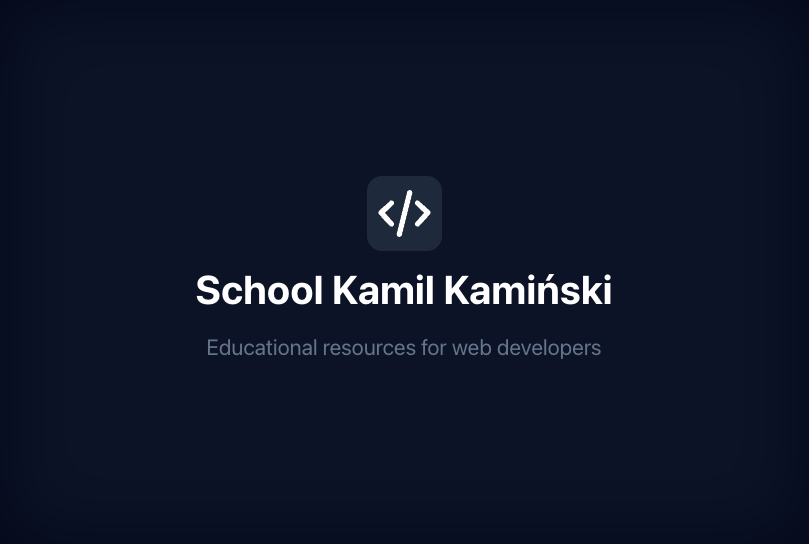
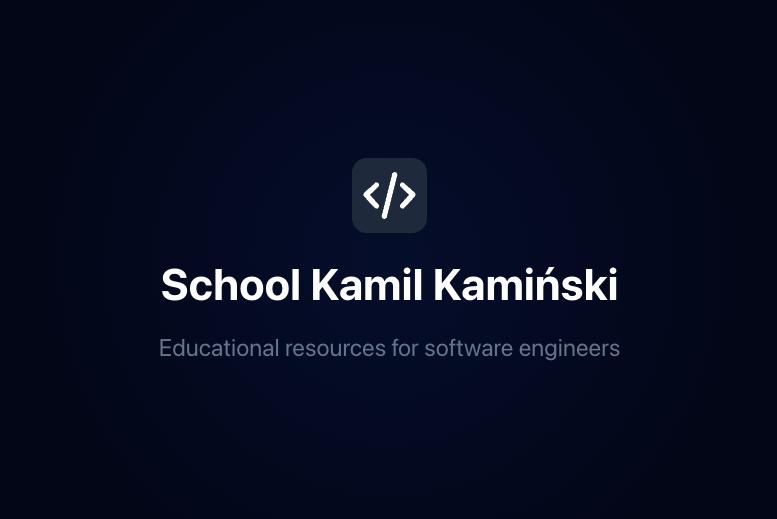
refactor: Landing section and blog section naming to tutorials section

Changed region(s): [[0.1853, 0.4933, 0.8031, 0.5857], [0.1853, 0.6166, 0.8031, 0.7091], [0.4633, 0.3391, 0.556, 0.4624]]

diff --git a/src/components/LandingSection.vue b/src/components/LandingSection.vue
@@ -14,12 +14,12 @@
     <span class="vertical-grid-line right" />
     <div class="landing-section__item">
       <span class="horizontal-grid-line top" />
-      <h1 class="landing-section__item-title">Education resources for web developers</h1>
+      <h1 class="landing-section__item-title">Educational resources for software engineers</h1>
     </div>
     <div class="landing-section__item">
       <span class="horizontal-grid-line top" />
       <p class="landing-section__desc">
-        Explore online <strong>courses</strong>, <strong>templates</strong>,
+        Explore online <strong>projects</strong>, <strong>templates</strong>,
         <strong>coding examples</strong>, <strong>tutorials</strong>, and much more - all in one
         place
       </p>
@@ -31,7 +31,7 @@
         <button class="landing-section__item-btn btn--highlight" @click="openBlogPage">
           Get started
         </button>
-        <button class="landing-section__item-btn btn--outline" @click="scrollToBlogSection">
+        <button class="landing-section__item-btn btn--outline" @click="scrollToTutorialsSection">
           Learn more
         </button>
         <span v-if="!isTablet" class="vertical-grid-line right" />
@@ -51,9 +51,9 @@ const openBlogPage = () => {
   router.push({ name: 'blog' })
 }
 
-const scrollToBlogSection = () => {
-  const blogSection = document.getElementById('blog')
-  if (blogSection) blogSection.scrollIntoView({ behavior: 'smooth' })
+const scrollToTutorialsSection = () => {
+  const tutorialsSection = document.getElementById('tutorials')
+  if (tutorialsSection) tutorialsSection.scrollIntoView({ behavior: 'smooth' })
 }
 </script>
 
@@ -72,16 +72,17 @@ const scrollToBlogSection = () => {
     .landing-section__item-title {
       @include title;
       text-align: center;
-      max-width: 55%;
+      max-width: clamp(450px, 55vw, 650px);
 
-      @include for-large-tablet {
-        max-width: 400px;
+      @include for-small-phone {
+        max-width: unset;
       }
     }
 
     .landing-section__desc {
       font-size: 1.125em;
       color: $slate-gray;
+      line-height: 1.3;
 
       @include for-desktop {
         text-align: center;
@@ -90,6 +91,10 @@ const scrollToBlogSection = () => {
 
       @include for-tablet {
         max-width: 405px;
+      }
+
+      @include for-phone {
+        max-width: 280px;
       }
     }
 
@@ -178,12 +183,15 @@ const scrollToBlogSection = () => {
       }
     }
 
-    &:first-child {
+    &:first-child,
+    &:last-child {
       padding: 0;
     }
 
-    &:last-child {
-      padding: 0;
+    &:nth-child(4) {
+      @include for-phone {
+        padding: 1.25em;
+      }
     }
   }
 

diff --git a/index.html b/index.html
@@ -3,7 +3,7 @@
   <head>
     <meta charset="UTF-8">
     <title>School Kamil Kamiński</title>
-    <meta name="description" content="Education resources for web developers">
+    <meta name="description" content="Educational resources for software engineers">
     <link rel="icon" type="image/png" sizes="16x16" href="/favicon-16x16.png">
     <link rel="icon" type="image/png" sizes="32x32" href="/favicon-32x32.png">
     <link rel="icon" type="image/png" sizes="48x48" href="/favicon-48x48.png">
@@ -15,10 +15,10 @@
     <meta property="og:site_name" content="School Kamil Kamiński">
     <meta property="og:url" content="https://school.kamilkaminski.pl/">
     <meta property="og:type" content="website">
-    <meta property="og:description" content="Education resources for web developers">
+    <meta property="og:description" content="Educational resources for software engineers">
     <meta property="og:image" content="https://school.kamilkaminski.pl/og.png">
     <meta property="twitter:title" content="School Kamil Kamiński">
-    <meta property="twitter:description" content="Education resources for web developers">
+    <meta property="twitter:description" content="Educational resources for software engineers">
     <meta property="twitter:card" content="summary_large_image">
     <meta property="twitter:image" content="https://school.kamilkaminski.pl/og.png">
     <meta property="twitter:url" content="https://school.kamilkaminski.pl/">

diff --git a/src/components/TutorialsSection.vue b/src/components/TutorialsSection.vue
@@ -1,10 +1,10 @@
 <template>
-  <section class="blog-section" id="blog">
-    <h1 class="blog-section__title">Modern, well-explained, and high-quality tutorials</h1>
-    <p class="blog-section__desc">
+  <section class="tutorials-section" id="tutorials">
+    <h1 class="tutorials-section__title">Modern, well-explained, and high-quality tutorials</h1>
+    <p class="tutorials-section__desc">
       Discover a wide range of topics and enhance your skills with extensive resources
     </p>
-    <div class="blog-section__featured">
+    <div class="tutorials-section__featured">
       <FeaturedTutorial />
     </div>
   </section>
@@ -15,12 +15,12 @@ import FeaturedTutorial from '@/components/FeaturedTutorial.vue'
 </script>
 
 <style lang="scss">
-.blog-section {
+.tutorials-section {
   margin: 0 auto;
   padding-top: 5em;
   @include hide-scrollbar;
 
-  .blog-section__title {
+  .tutorials-section__title {
     @include title;
     padding: 0.25rem;
     max-width: 479px;
@@ -32,7 +32,7 @@ import FeaturedTutorial from '@/components/FeaturedTutorial.vue'
     }
   }
 
-  .blog-section__desc {
+  .tutorials-section__desc {
     margin: 1.5rem 0;
     color: $slate-gray;
 
@@ -42,7 +42,7 @@ import FeaturedTutorial from '@/components/FeaturedTutorial.vue'
     }
   }
 
-  .blog-section__featured {
+  .tutorials-section__featured {
     overflow: scroll;
     width: 100%;
     @include hide-scrollbar;

diff --git a/src/views/HomeView.vue b/src/views/HomeView.vue
@@ -1,14 +1,14 @@
 <template>
   <main class="home-page">
     <LandingSection />
-    <BlogSection />
+    <TutorialsSection />
     <ProjectsSection />
   </main>
 </template>
 
 <script setup lang="ts">
 import LandingSection from '@/components/LandingSection.vue'
-import BlogSection from '@/components/BlogSection.vue'
+import TutorialsSection from '@/components/TutorialsSection.vue'
 import ProjectsSection from '@/components/ProjectsSection.vue'
 </script>
 
